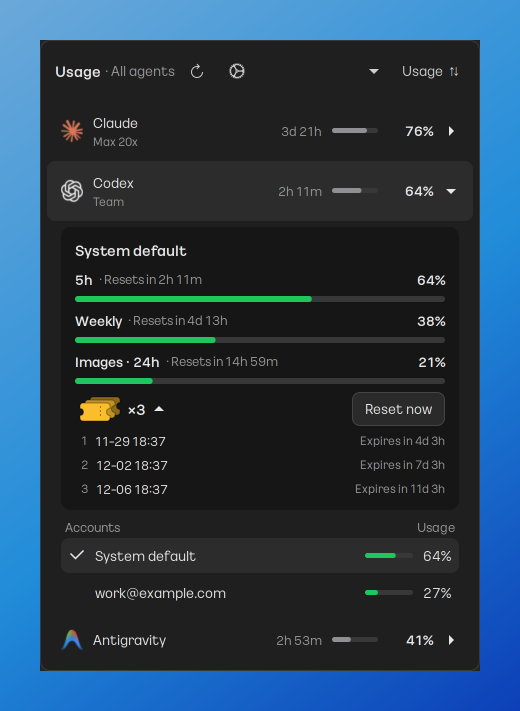
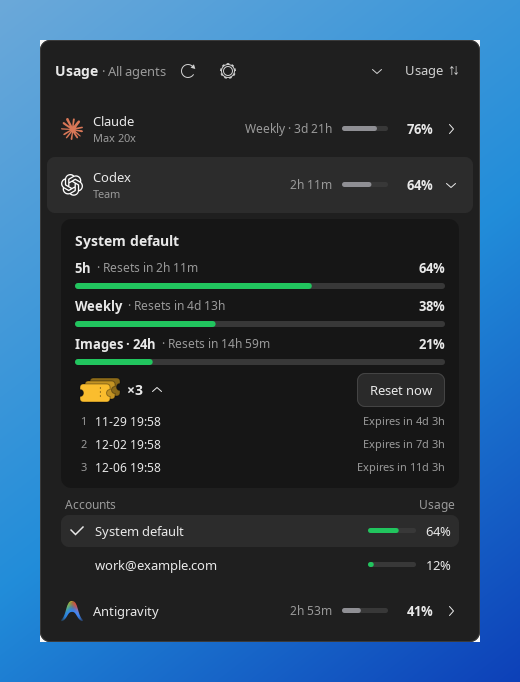
✨ feat: 짧은 한도를 먼저 보여 주고 주간 한도는 따로 표시
- 상단바·부채꼴·패널 줄은 가장 짧은 한도를 보여 준다. 그 한도나 주간
  한도를 다 쓰면 주간으로 바꾸고, 같은 길이의 모델별 한도는 가장 많이
  쓴 값을 쓴다.
- 주간 한도를 보여 줄 때는 상단바에 "주", 이름표와 패널 줄에 "주간"을
  붙인다(영어 W, Weekly).
- 한도마다 길이(초)를 저장하고 캐시에 형식 버전을 붙인다.
- README 설명과 스크린샷을 갱신한다.

diff --git a/agent_usage/providers.py b/agent_usage/providers.py
@@ -36,10 +36,15 @@ def from_iso(value):
     return datetime.fromisoformat(value.replace("Z", "+00:00")) if isinstance(value, str) and value else None
 
 
-def window(label, used, reset_at):
+FIVE_HOURS = 18000
+WEEK = 604800
+
+
+def window(label, used, reset_at, seconds):
+    """seconds 는 한도 길이다. 상단바·부채꼴에 어느 한도를 보여 줄지 고를 때 쓴다."""
     if not isinstance(used, (int, float)):
         raise RuntimeError(t("사용률 값이 올바르지 않습니다: {v0}", v0=label))
-    return {"label": label, "used": max(0.0, min(100.0, float(used))), "reset_at": reset_at}
+    return {"label": label, "used": max(0.0, min(100.0, float(used))), "reset_at": reset_at, "seconds": seconds}
 
 
 def http_json(url, headers, data=None, method=None):
@@ -120,7 +125,7 @@ def parse_image_headers(headers):
         raise RuntimeError(t("이미지 한도 헤더가 없습니다."))
     seconds = int(headers["x-codex-primary-window-minutes"]) * 60
     return window(t("이미지") + " · " + window_label(seconds), float(headers["x-codex-primary-used-percent"]),
-                  from_epoch(headers.get("x-codex-primary-reset-at")))
+                  from_epoch(headers.get("x-codex-primary-reset-at")), seconds)
 
 
 def codex_image_limit(headers):
@@ -140,12 +145,13 @@ def parse_codex_usage(usage):
     rate = usage.get("rate_limit")
     if not isinstance(rate, dict):
         raise RuntimeError(t("Codex 사용량 정보가 없습니다."))
-    windows = [window(window_label(source["limit_window_seconds"]), source.get("used_percent"), from_epoch(source.get("reset_at")))
+    windows = [window(window_label(source["limit_window_seconds"]), source.get("used_percent"), from_epoch(source.get("reset_at")), source["limit_window_seconds"])
                for source in (rate.get("primary_window"), rate.get("secondary_window")) if source]
     for extra in usage.get("additional_rate_limits") or []:
         for source in (extra.get("rate_limit") or {}).get("primary_window"), (extra.get("rate_limit") or {}).get("secondary_window"):
             if source:
-                windows.append(window(f"{extra.get('limit_name')} · {window_label(source['limit_window_seconds'])}", source.get("used_percent"), from_epoch(source.get("reset_at"))))
+                windows.append(window(f"{extra.get('limit_name')} · {window_label(source['limit_window_seconds'])}", source.get("used_percent"), from_epoch(source.get("reset_at")),
+                                      source["limit_window_seconds"]))
     if not windows:
         raise RuntimeError(t("Codex 사용량 창이 없습니다."))
     return {"plan": usage.get("plan_type"), "windows": windows,
@@ -204,12 +210,12 @@ def claude_email(config_dir):
 
 
 def parse_claude_usage(usage):
-    windows = [window(label, usage[key]["utilization"], from_iso(usage[key]["resets_at"]))
-               for key, label in (("five_hour", "5h"), ("seven_day", t("주간"))) if usage.get(key)]
+    windows = [window(label, usage[key]["utilization"], from_iso(usage[key]["resets_at"]), seconds)
+               for key, label, seconds in (("five_hour", "5h", FIVE_HOURS), ("seven_day", t("주간"), WEEK)) if usage.get(key)]
     for limit in usage.get("limits") or []:
         model = ((limit.get("scope") or {}).get("model") or {}).get("display_name")
         if limit.get("kind") == "weekly_scoped" and model:
-            windows.append(window(f"{t('주간')} · {model}", limit.get("percent"), from_iso(limit.get("resets_at"))))
+            windows.append(window(f"{t('주간')} · {model}", limit.get("percent"), from_iso(limit.get("resets_at")), WEEK))
     if not windows:
         raise RuntimeError(t("Claude 사용량 창이 없습니다."))
     return windows
@@ -234,15 +240,22 @@ def antigravity_env(home):
     return {**env, "HOME": str(home), **NO_KEYRING} if home else env
 
 
+def antigravity_window(group, bucket):
+    lengths = {"5h": ("5h", FIVE_HOURS), "weekly": (t("주간"), WEEK)}
+    if bucket["window"] not in lengths:
+        raise RuntimeError(t("agy 사용량 응답을 해석하지 못했습니다: {v0}", v0=bucket["window"]))
+    name, seconds = lengths[bucket["window"]]
+    return window(f"{group['name'].replace(' Models', '').replace(' models', '')} · {name}",
+                  (1 - bucket["remaining_fraction"]) * 100, from_iso(bucket.get("reset_time")), seconds)
+
+
 def parse_antigravity(stdout):
     if "Authentication required" in stdout:
         raise LoginExpired(t("로그인 필요"))
     for line in stdout.splitlines():
         if line.startswith("{") and '"command"' in line:
             groups = json.loads(line)["command"]["data"]["groups"]
-            return [window(f"{group['name'].replace(' Models', '').replace(' models', '')} · {'5h' if bucket['window'] == '5h' else t('주간')}",
-                           (1 - bucket["remaining_fraction"]) * 100, from_iso(bucket.get("reset_time")))
-                    for group in groups for bucket in group["buckets"] if not bucket.get("disabled")]
+            return [antigravity_window(group, bucket) for group in groups for bucket in group["buckets"] if not bucket.get("disabled")]
     raise RuntimeError(t("agy 사용량 응답을 해석하지 못했습니다: {v0}", v0=stdout[:200]))
 
 

diff --git a/agent_usage/widget.py b/agent_usage/widget.py
@@ -132,7 +132,21 @@ def with_backoff(previous, fetched, backoff, now):
 
 
 def headline(report):
-    return max(report["windows"], key=lambda window: window["used"]) if report.get("windows") else None
+    """상단바·부채꼴·패널 줄에 보여 줄 한도. 평소엔 가장 짧은 한도다. 다 쓴 한도가 있으면 그보다 긴 한도 중 가장 짧은 것을,
+    더 긴 한도가 없으면 다 쓴 그 한도를 보여 준다. 길이가 같은 모델별 한도는 가장 많이 쓴 것을 쓴다."""
+    tiers = {}
+    for window in report.get("windows") or []:
+        if window["seconds"] not in tiers or window["used"] > tiers[window["seconds"]]["used"]:
+            tiers[window["seconds"]] = window
+    ordered = [tiers[seconds] for seconds in sorted(tiers)]
+    if not ordered:
+        return None
+    exhausted = [index for index, window in enumerate(ordered) if window["used"] >= 100]
+    return ordered[min(exhausted[-1] + 1, len(ordered) - 1)] if exhausted else ordered[0]
+
+
+def weekly(window):
+    return window["seconds"] >= providers.WEEK
 
 
 def icon(provider, size):
@@ -772,7 +786,8 @@ class App:
         if report["status"] != "ok":
             return status_text(report)
         # 상단바는 트레이 아이콘이 많으면 라벨을 잘라서 사용률만 둔다. 남은 시간은 패널에서 보인다.
-        return percent_text(headline(report)["used"])
+        top = headline(report)
+        return t("주") + " " + percent_text(top["used"]) if weekly(top) else percent_text(top["used"])
 
     # 패널
 
@@ -869,7 +884,9 @@ class App:
         if report["status"] != "ok":
             return None, status_text(report)
         top = headline(report)
-        return top["used"], countdown(top["reset_at"], compact=True)
+        reset = countdown(top["reset_at"], compact=True)
+        # 이름표는 64px 라 영어는 "Weekly" 대신 "W" 로 줄인다.
+        return top["used"], t("주간 {v0}", v0=reset) if weekly(top) else reset
 
     def slide(self, opening):
         # 투명도와 위치를 함께 바꿔 동그라미(또는 상단바) 쪽에서 밀려 나오는 것처럼 보이게 한다.
@@ -1046,7 +1063,8 @@ class App:
             row.pack_start(label(status_text(report), "muted"), False, False, 0)
         else:
             top = headline(report)
-            row.pack_start(label(countdown(top["reset_at"]), "muted", "small", xalign=1.0), False, False, 0)
+            reset = countdown(top["reset_at"])
+            row.pack_start(label(f"{t('주간')} · {reset}" if weekly(top) else reset, "muted", "small", xalign=1.0), False, False, 0)
             percent = label("", "percent", xalign=1.0)
             percent.set_width_chars(5)
             row.pack_start(Bar(top["used"], width=46, height=5, gray=True, key=(*self.key(account), "row"), text=percent), False, False, 0)

diff --git a/agent_usage/cache.py b/agent_usage/cache.py
@@ -3,6 +3,8 @@ import os
 from datetime import datetime
 from pathlib import Path
 
+# 저장 형식이 바뀌면 올린다. 다른 버전의 캐시는 버리고 새로 조회한다.
+VERSION = 2
 CACHE_PATH = Path(os.environ.get("XDG_CACHE_HOME", Path.home() / ".cache")) / "agent-usage" / "reports.json"
 
 
@@ -19,7 +21,7 @@ def decode(value):
 def save(reports, backoff, sent, path=CACHE_PATH):
     """마지막 사용량, 429 대기 상태, 보낸 알림. 다시 켜도 바로 보이고 갱신 주기 안에서는 다시 조회하지 않는다."""
     path.parent.mkdir(parents=True, exist_ok=True)
-    data = {"reports": {"|".join(key): report for key, report in reports.items()},
+    data = {"version": VERSION, "reports": {"|".join(key): report for key, report in reports.items()},
             "backoff": {"|".join(key): value for key, value in backoff.items() if value},
             "alerts": {"|".join(key): value for key, value in sent.items()}}
     temporary = path.with_suffix(".tmp")
@@ -31,6 +33,8 @@ def load(path=CACHE_PATH):
     if not path.exists():
         return {}, {}, {}
     data = json.loads(path.read_text(), object_hook=decode)
+    if data.get("version") != VERSION:
+        return {}, {}, {}
     return ({tuple(key.split("|", 1)): report for key, report in data["reports"].items()},
             {tuple(key.split("|", 1)): tuple(value) for key, value in data["backoff"].items()},
             {tuple(key.split("|", 2)): value for key, value in data.get("alerts", {}).items()})

diff --git a/tests/test_headline.py b/tests/test_headline.py
@@ -1,0 +1,35 @@
+import unittest
+
+from agent_usage.providers import FIVE_HOURS, WEEK
+from agent_usage.widget import headline
+
+
+def w(label, used, seconds):
+    return {"label": label, "used": used, "reset_at": None, "seconds": seconds}
+
+
+def shown(*windows):
+    return headline({"windows": list(windows)})["label"]
+
+
+class HeadlineTest(unittest.TestCase):
+    def test_short_limit_comes_first_even_when_weekly_is_higher(self):
+        self.assertEqual(shown(w("week", 80, WEEK), w("5h", 20, FIVE_HOURS)), "5h")
+
+    def test_exhausted_short_limit_moves_to_weekly(self):
+        self.assertEqual(shown(w("5h", 100, FIVE_HOURS), w("week", 60, WEEK)), "week")
+
+    def test_exhausted_weekly_wins_over_open_short_limit(self):
+        self.assertEqual(shown(w("5h", 40, FIVE_HOURS), w("week", 100, WEEK)), "week")
+        self.assertEqual(shown(w("5h", 100, FIVE_HOURS), w("week", 100, WEEK)), "week")
+
+    def test_same_length_model_limits_use_the_most_used(self):
+        self.assertEqual(shown(w("gemini 5h", 99, FIVE_HOURS), w("gpt 5h", 0, FIVE_HOURS), w("gemini week", 25, WEEK)), "gemini 5h")
+
+    def test_only_weekly_and_no_windows(self):
+        self.assertEqual(shown(w("week", 83, WEEK)), "week")
+        self.assertIsNone(headline({"windows": []}))
+
+
+if __name__ == "__main__":
+    unittest.main()

diff --git a/scripts/screenshots.py b/scripts/screenshots.py
@@ -18,7 +18,8 @@ NOW = providers.now()
 
 
 def window(label, used, hours):
-    return {"label": label, "used": float(used), "reset_at": NOW + timedelta(hours=hours)}
+    seconds = providers.FIVE_HOURS if label.endswith("5h") else 86400 if label.endswith("24h") else providers.WEEK
+    return {"label": label, "used": float(used), "reset_at": NOW + timedelta(hours=hours), "seconds": seconds}
 
 
 ACCOUNTS = [
@@ -33,7 +34,7 @@ REPORTS = {
                           "reset_credits": {"count": 3, "expires": [NOW + timedelta(days=days, hours=4) for days in (4, 7, 11)]}},
     ("codex", "work"): {"status": "ok", "plan": "plus", "windows": [window("5h", 12, 4.6), window("Weekly", 27, 70)],
                         "reset_credits": {"count": 0, "expires": []}},
-    ("claude", "system"): {"status": "ok", "plan": "Max 20x", "windows": [window("5h", 18, 3.1), window("Weekly", 76, 94)]},
+    ("claude", "system"): {"status": "ok", "plan": "Max 20x", "windows": [window("5h", 100, 3.1), window("Weekly", 76, 94)]},
     ("antigravity", "system"): {"status": "ok", "plan": None, "windows": [window("Gemini · 5h", 41, 2.9), window("Gemini · Weekly", 23, 150),
                                                                           window("Claude and GPT · 5h", 0, 4.9), window("Claude and GPT · Weekly", 5, 151)]},
 }

diff --git a/README.md b/README.md
@@ -18,6 +18,7 @@ A floating desktop widget for Linux that shows how much of your AI coding agent 
 - Click an agent bubble for its detail panel with every usage window and the plan name.
 - Several accounts per agent. Add or sign in again from the panel, and the sign-in page opens in your browser.
 - Top bar indicators with the current usage of each agent.
+- The bubbles and the top bar show the shortest limit (usually 5 hours) first. When it runs out, or when the weekly limit runs out, they switch to the weekly limit, marked with `W`.
 - Polls every 5 minutes by default. The last values are cached, so they show right away after a restart. When a usage API rate-limits you, the widget waits 5 to 30 minutes and keeps showing the last value.
 - Optional desktop alerts, off by default: when a limit crosses the threshold you set with a slider (50–100%), when it runs out, and when it resets. Each alert fires once per limit until it resets.
 - Settings for language, used or remaining display, top bar icons, refresh interval, start on login, alerts and which agents to show.
